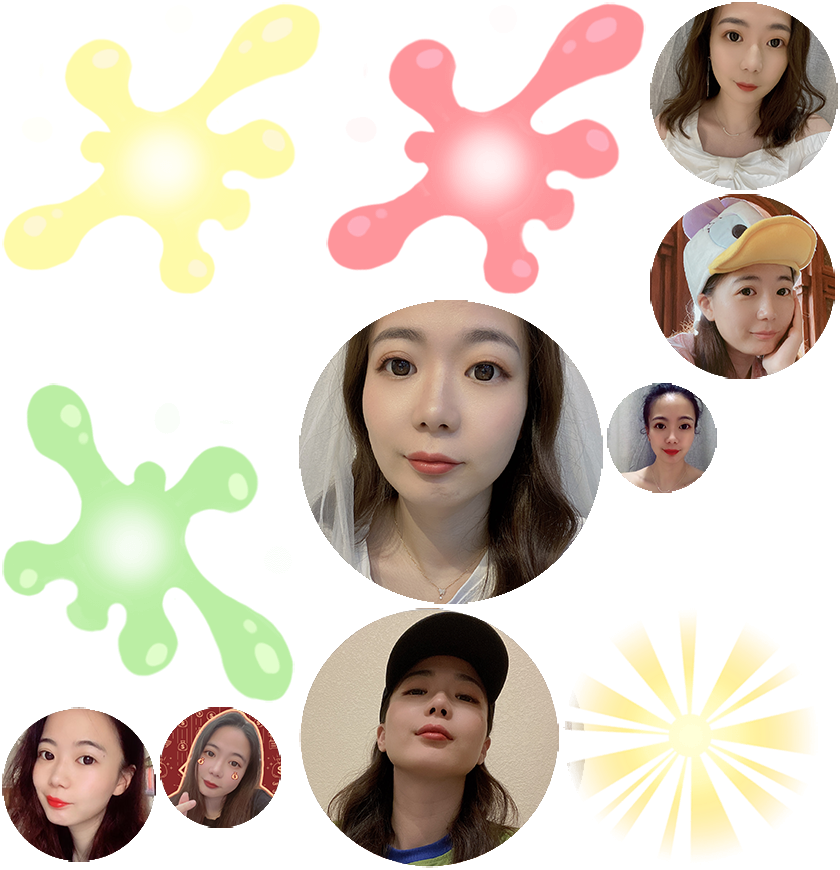
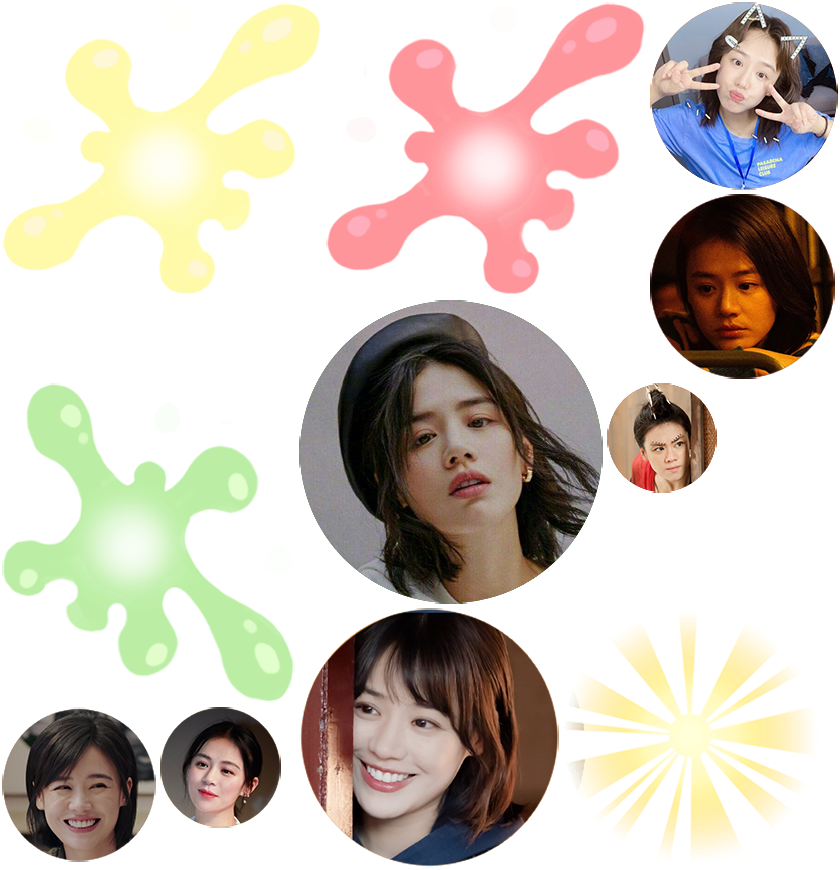
initial commit

Changed region(s): [[0.0, 0.0, 1.0, 1.0]]

diff --git a/index.html b/index.html
@@ -4,7 +4,7 @@
 <head>
     <meta charset="utf-8">
 
-    <title>合成大陈晨</title>
+    <title>合成马思纯</title>
 
     <!--http://www.html5rocks.com/en/mobile/mobifying/-->
     <meta name="viewport" content="width=device-width,user-scalable=no,initial-scale=1, minimum-scale=1,maximum-scale=1" />
@@ -109,7 +109,7 @@
             //        console.log("window.navigator.language",window.navigator.language);
 
             if (window.navigator.language == "zh-CN" || window.navigator.language == "zh-cn") {
-                document.title = "合成大陈晨";
+                document.title = "合成马思纯";
             } 
 
 
